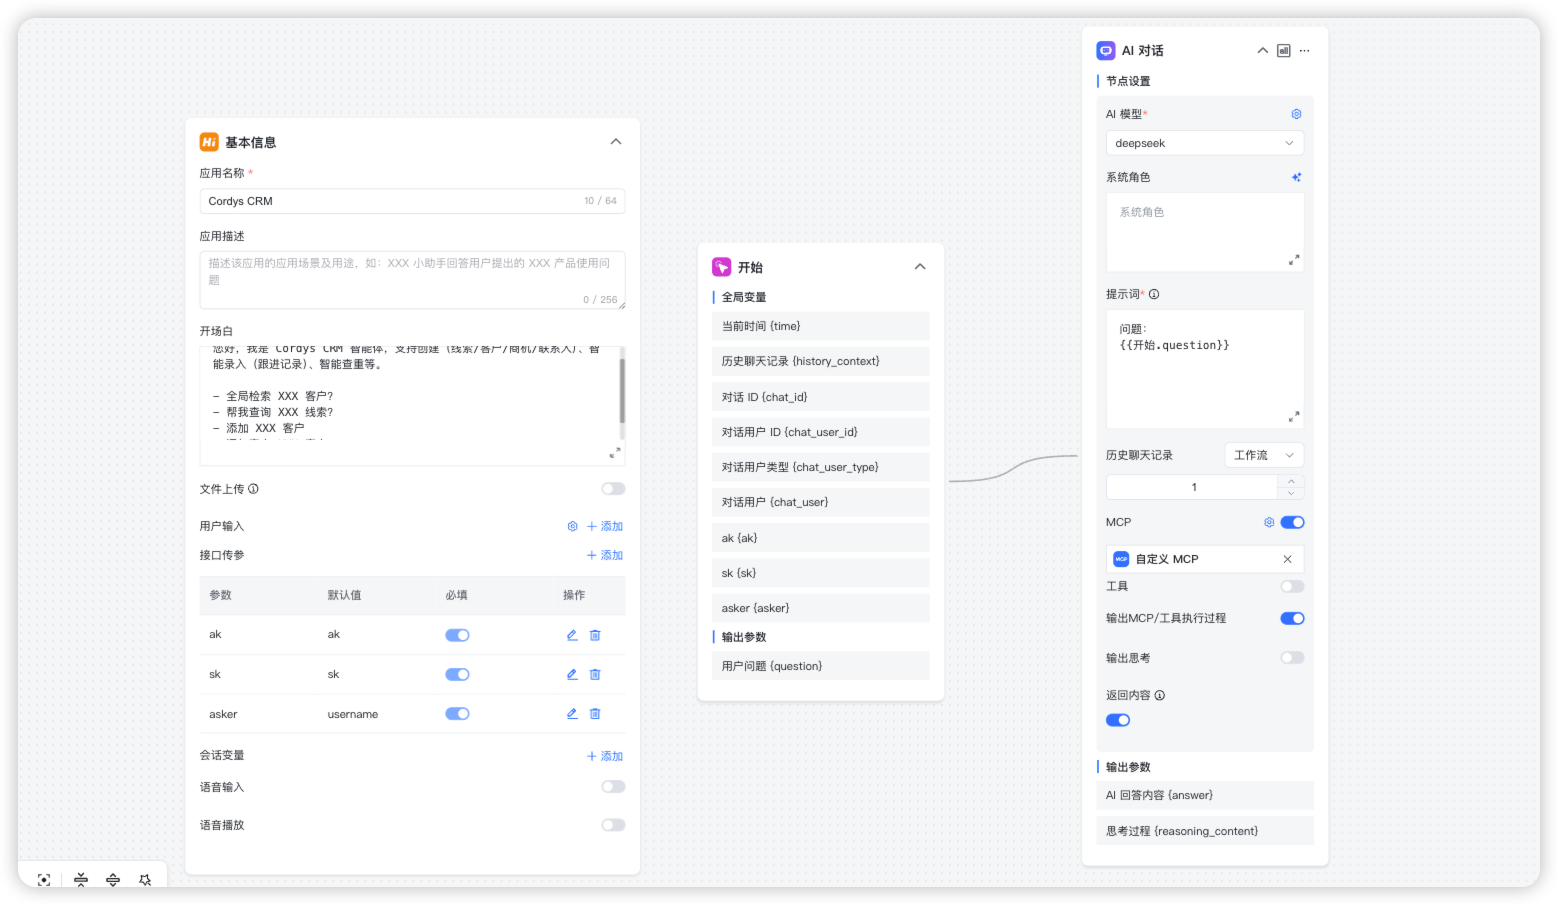
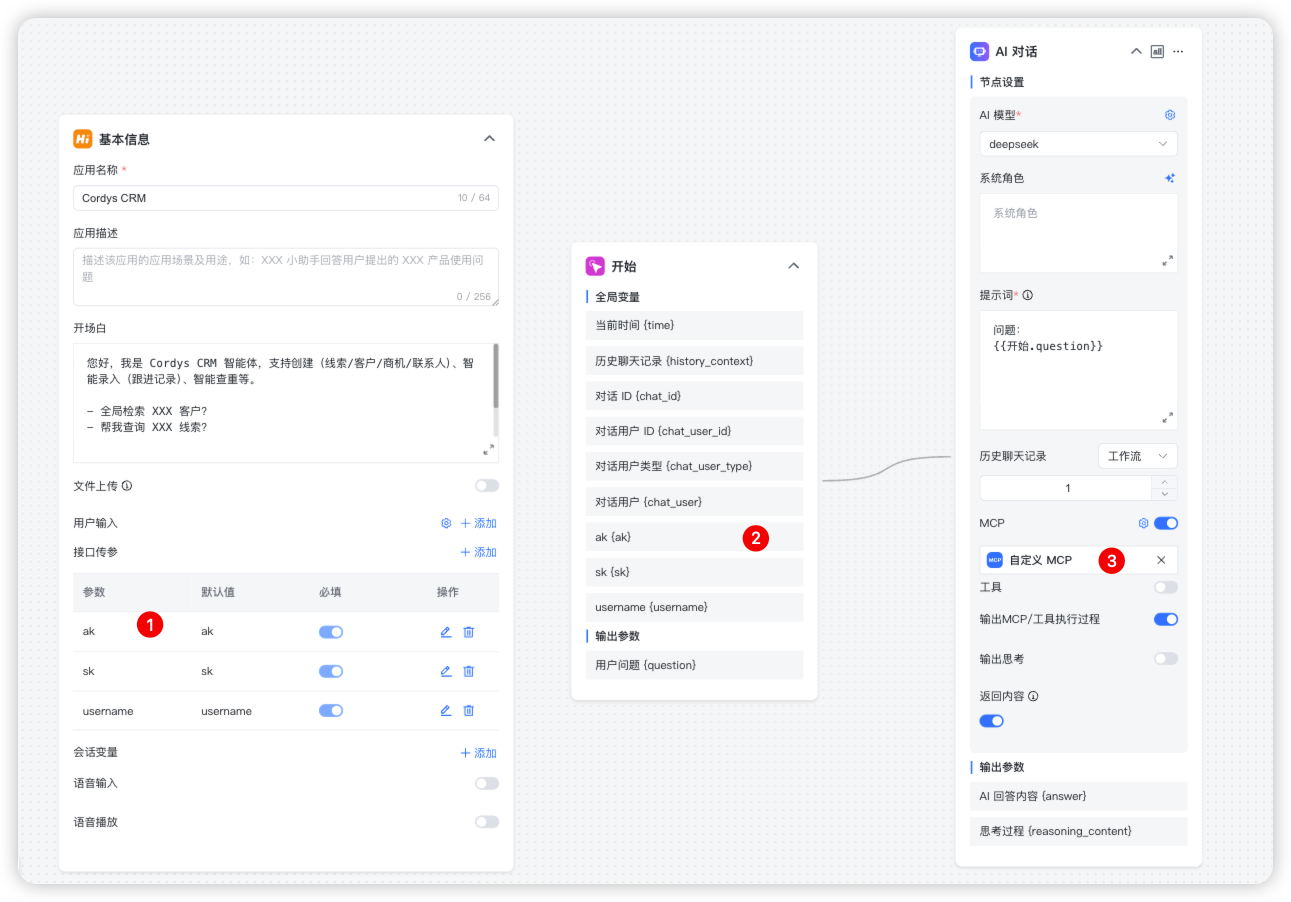
docs: update example in maxkb.md to correct parameter name

diff --git a/docs/manual/user_manual/maxkb.md b/docs/manual/user_manual/maxkb.md
@@ -37,7 +37,7 @@
 >
 > 示例：
 > ```
-> 在嵌入脚本的 src 中追加 ak=${ak}&sk=${sk}&asker=${username}
+> 在嵌入脚本的 src 中追加 ak=${ak}&sk=${sk}&username=${username}
 > ```
 
 ![添加智能体](../img/user_manual/agent-add.png)
